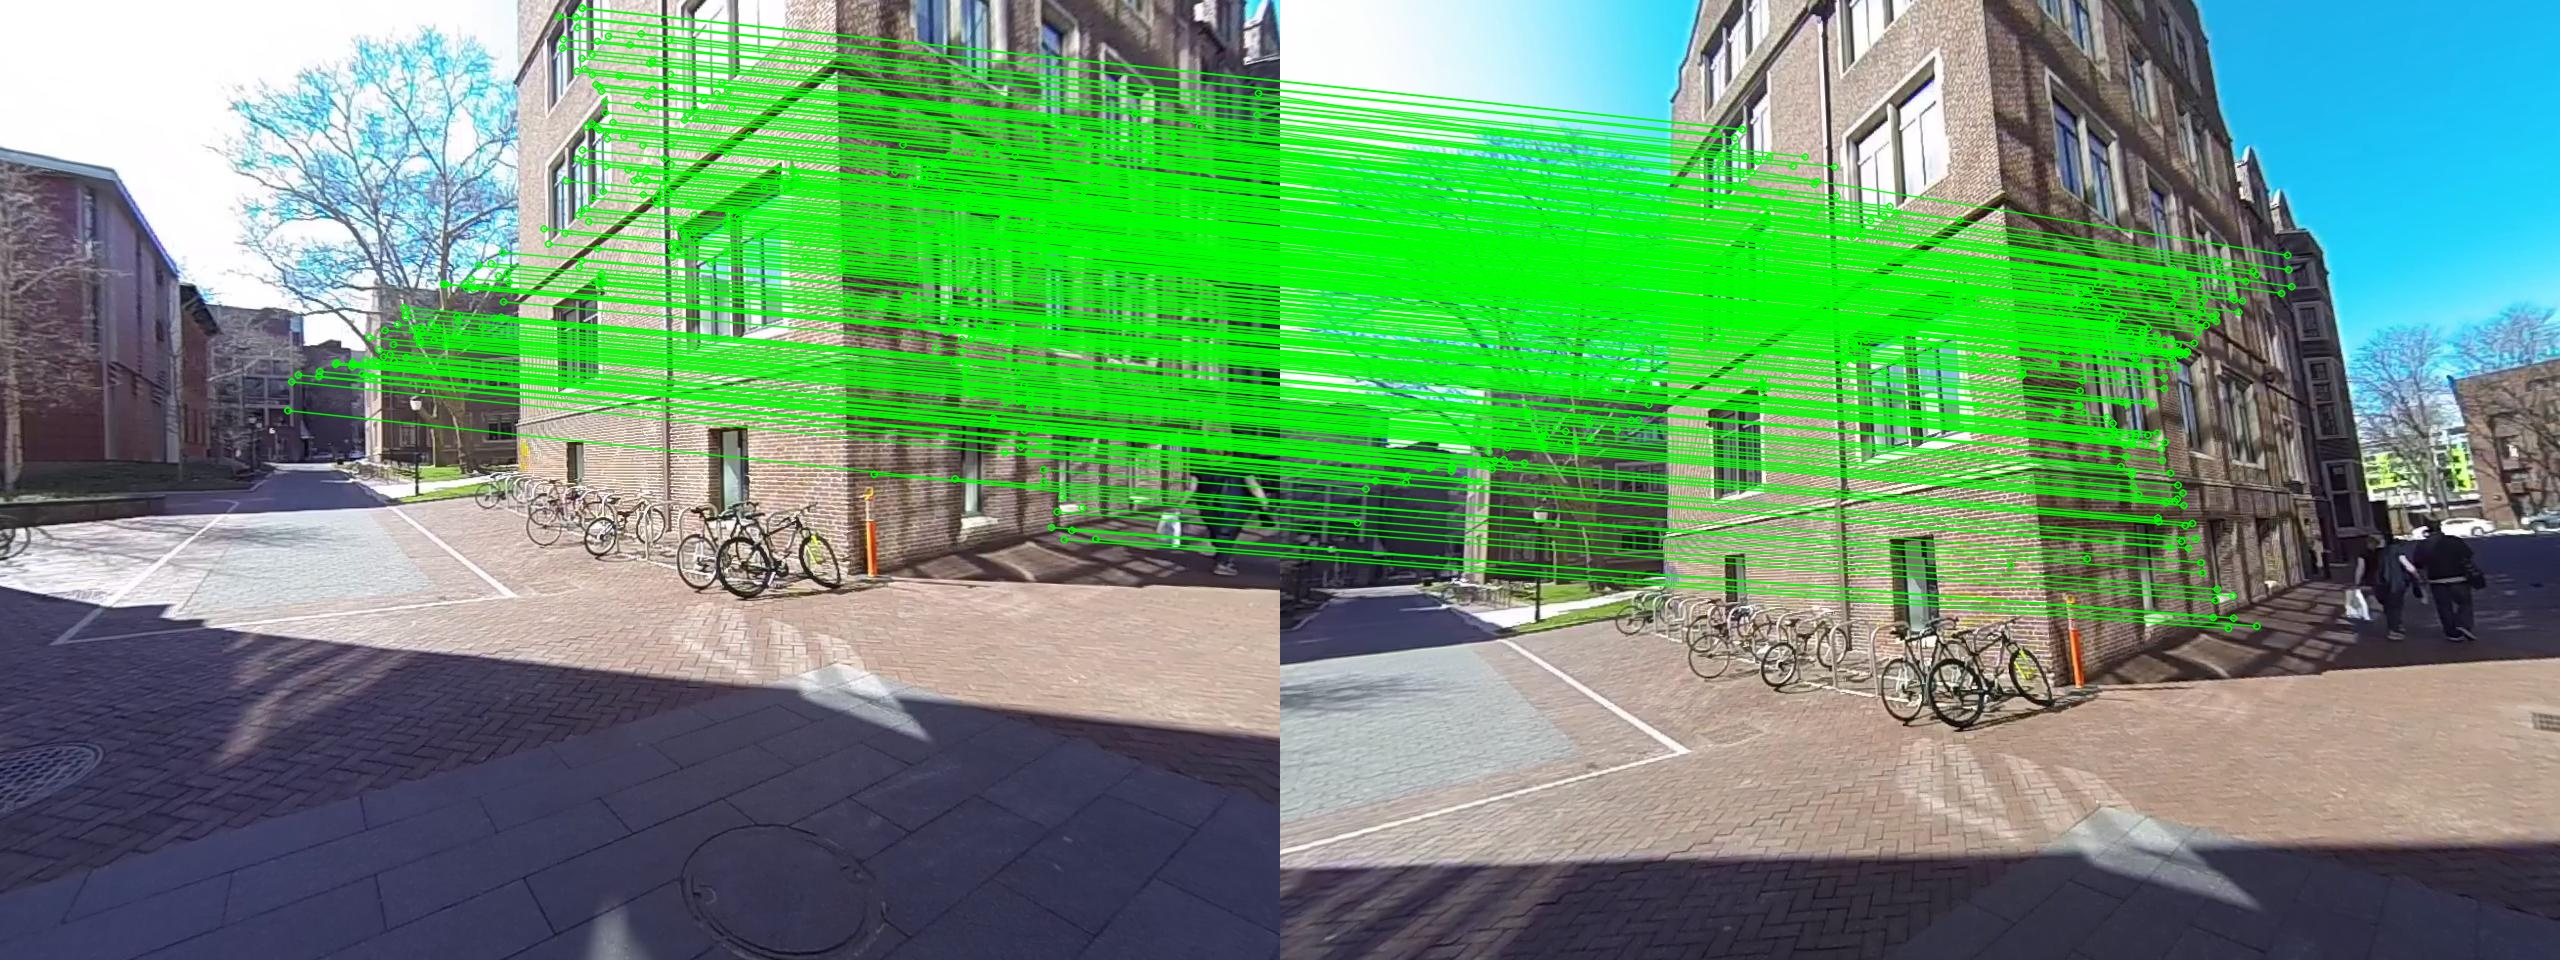
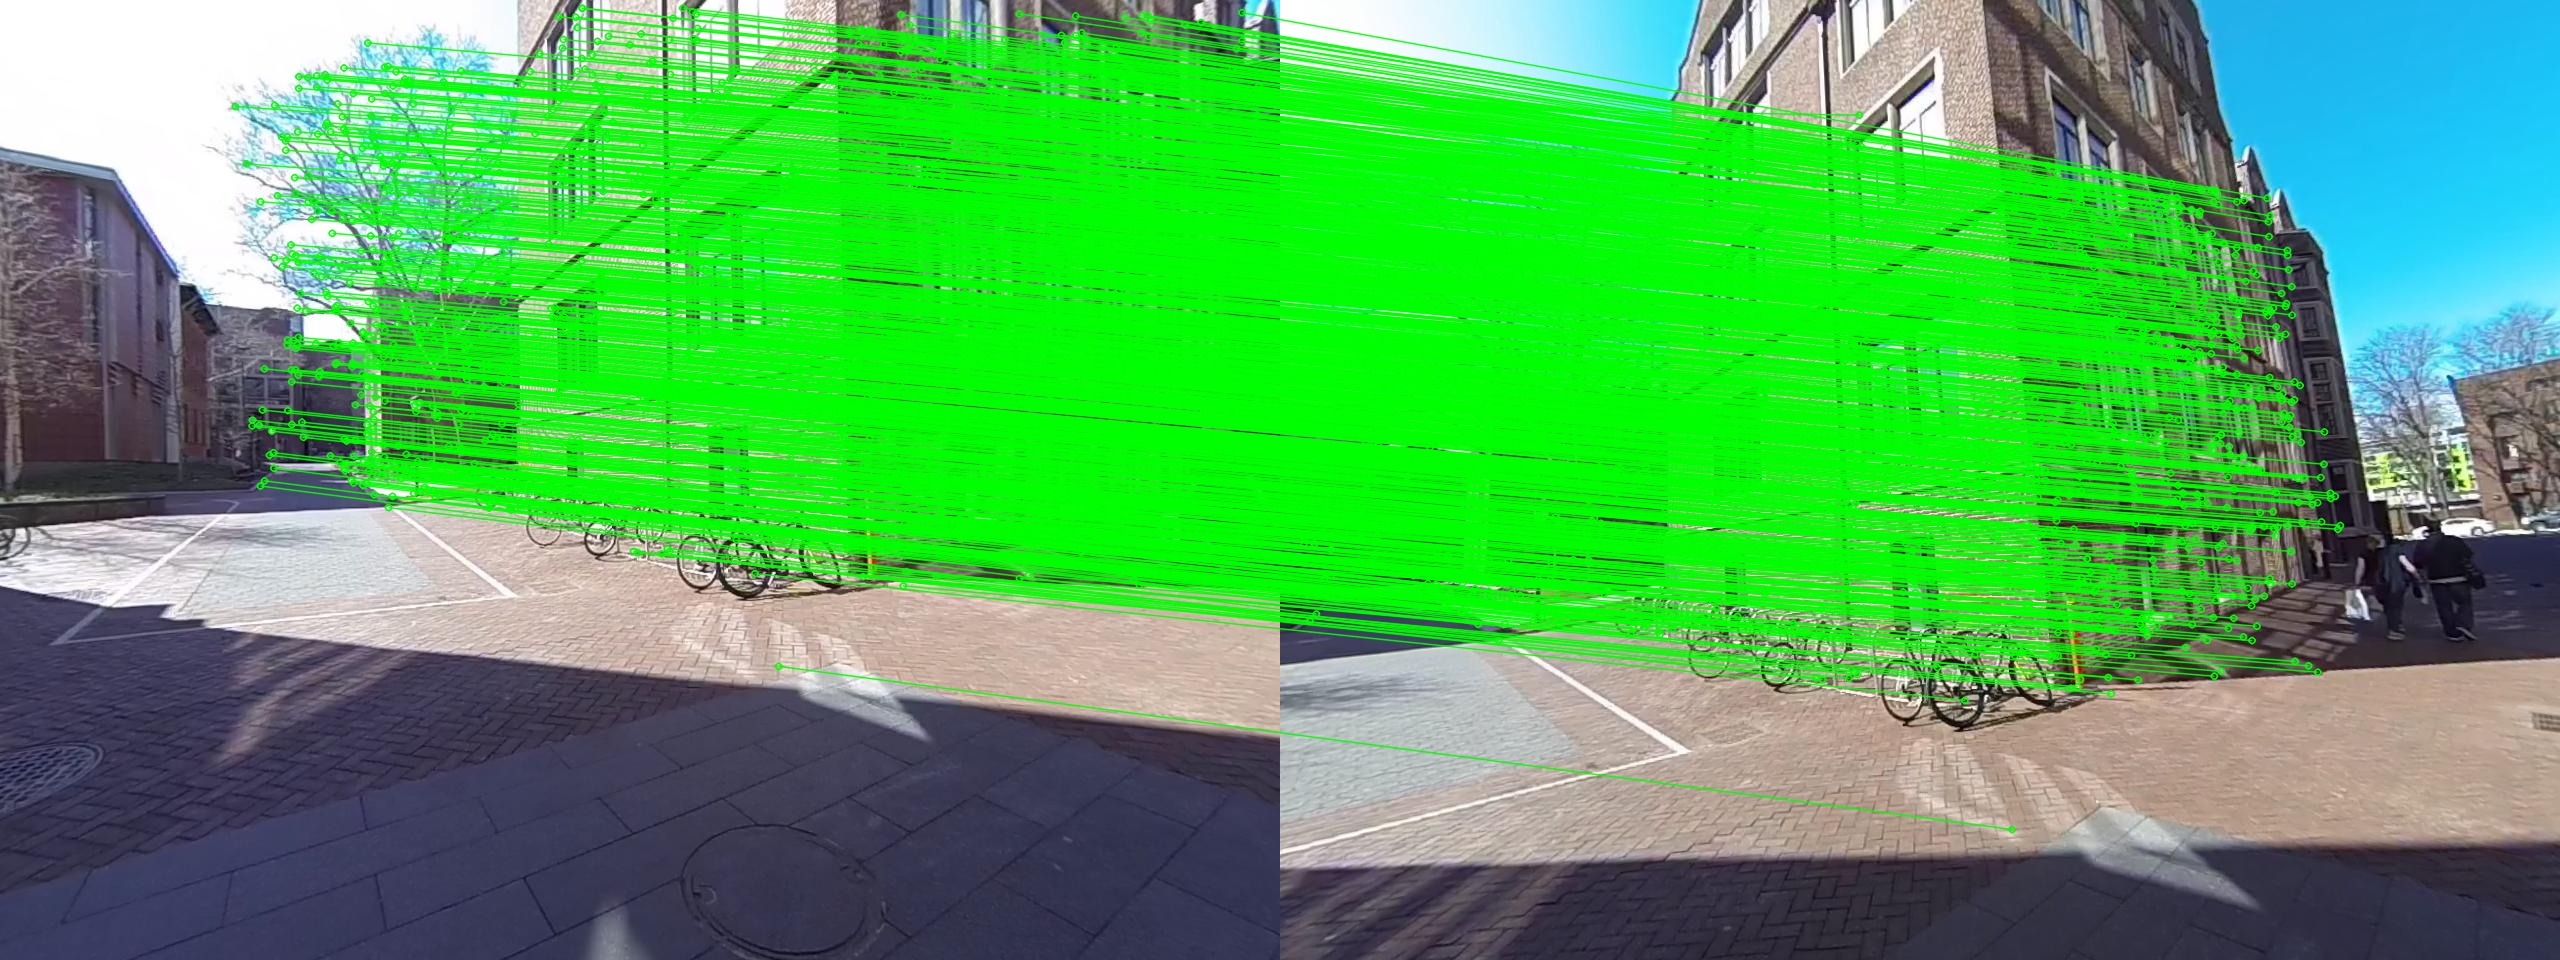
tracked down errors in GetInliersRANSAC

diff --git a/Code/EstimateFundamentalMatrix.py b/Code/EstimateFundamentalMatrix.py
@@ -1,6 +1,8 @@
 from numpy import linalg as LA
 import numpy as np
+import cv2
 
+'''
 def getT(points):
     # find centroid and shift points
     centroid = np.mean(points, axis=0)
@@ -16,7 +18,33 @@ def getT(points):
                   [0, 0, 1]])
 
     return T
+'''
 
+def getT(points):
+    '''
+    https://sites.cc.gatech.edu/classes/AY2016/cs4476_fall/results/proj3/html/arao83/index.html
+    '''
+    n = points.shape[0]
+    C = np.mean(points, axis=0)
+
+    # center points
+    u = points[:, 0] - C[0]
+    v = points[:, 1] - C[1]
+
+    # find stddev for centered points
+    std_u = 1 / np.std(u)
+    std_v = 1 / np.std(v)
+
+    # find transformation matrix
+    T_scale = np.array([[std_u, 0, 0],
+                        [0, std_v, 0],
+                        [0, 0, 1]])
+    T_offset = np.array([[1, 0, -C[0]],
+                         [0, 1, -C[1]],
+                         [0, 0, 1]])
+    T = T_scale @ T_offset
+
+    return T
 
 def EstimateFundamentalMatrix(x1DF, x2DF):
     """
@@ -31,7 +59,7 @@ def EstimateFundamentalMatrix(x1DF, x2DF):
         F (ndarray): The estimated 3x3 Fundamental matrix.
     """
 
-
+    '''
     # Convert input data from DataFrames to numpy arrays for easier manipulation
     x1DF = x1DF.to_numpy()
     x2DF = x2DF.to_numpy()
@@ -39,33 +67,41 @@ def EstimateFundamentalMatrix(x1DF, x2DF):
     x2_aug = np.hstack((x2DF, np.ones((x2DF.shape[0], 1))))
 
     # Step 1: Normalization
-    T1 = getT(x1_aug)
-    T2 = getT(x2_aug)
-    x1_norm = T1 @ x1_aug.T
-    x2_norm = T2 @ x2_aug.T
+    T1 = getT(x1DF)
+    T2 = getT(x2DF)
+    x1_norm = (T1 @ x1_aug.T).T
+    x2_norm = (T2 @ x2_aug.T).T
 
     # Step 2: Construct the Linear System (A)
     A = np.zeros((x1DF.shape[0], 9))
     for i in range(x1DF.shape[0]):
-        xS, yS = x1_norm[:2, i]
-        xT, yT = x2_norm[:2, i]
+        xS = x1_norm[i, 0]
+        yS = x1_norm[i, 1]
+        xT = x2_norm[i, 0]
+        yT = x2_norm[i, 1]
         A[i] = [xS * xT, xS * yT, xS, yS * xT, yS * yT, yS, xT, yT, 1]
 
     # Step 3: Solve the Linear System Using SVD
     U, S, Vh = LA.svd(A)
     f = Vh[-1, :]
-    F = f.reshape((3, 3))
-
+    F = f.reshape((3, 3)).T
+    
     # Step 4: Enforce Rank-2 Constraint on F
     U, S, Vh = LA.svd(F)
     S[-1] = 0  # Set the smallest singular value to zero
-    F = U @ np.diag(S) @ Vh
+    F = U @ (np.diag(S) @ Vh)
+
+    # Step 6: Denormalize the Fundamental Matrix
+    F = T2.T @ (F @ T1)
 
     # Step 5: Scaling - Ensure the last element of F is 1 for consistency
     F = F / F[2, 2]  # Corrected to F[2, 2] for the bottom-right element
 
-    # Step 6: Denormalize the Fundamental Matrix
-    F = T2.T @ F @ T1
+    '''
+    x1DF = x1DF.to_numpy()
+    x2DF = x2DF.to_numpy()
+    F, mask = cv2.findFundamentalMat(x1DF, x2DF, cv2.FM_LMEDS)
+    
 
     return F  # Return the estimated Fundamental matrix
 

diff --git a/Code/GetInliersRANSAC.py b/Code/GetInliersRANSAC.py
@@ -2,6 +2,7 @@ import pandas as pd
 import numpy as np
 import random
 import sys
+import cv2
 from EstimateFundamentalMatrix import EstimateFundamentalMatrix
 from tqdm import tqdm
 
@@ -24,8 +25,6 @@ def GetInliersRANSAC(x1All, x2All, M=1500, T=0.5):
 
     # RANSAC initialization
     inliersMax = 0
-    FBest = None
-    x1Inlier, x2Inlier = None, None
 
     for i in tqdm(range(M)):
         # Step 1: Randomly select 8 pairs of points
@@ -41,11 +40,11 @@ def GetInliersRANSAC(x1All, x2All, M=1500, T=0.5):
 
         for j in x1All.index:
             # Accessing x and y coordinates for source (x1All) and target (x2All) keypoints
-            m1 = np.append(x1All.loc[j, [2, 3]].to_numpy(), 1)  # For x1All, columns 2 and 3 (indices 1 and 2)
-            m2 = np.append(x2All.loc[j, [5, 6]].to_numpy(), 1)  # For x2All, columns 5 and 6 (indices 5 and 6)
+            m1 = np.append(x1All.loc[j, [2, 3]].to_numpy(), 1).T  # For x1All, columns 2 and 3 (indices 1 and 2)
+            m2 = np.append(x2All.loc[j, [5, 6]].to_numpy(), 1).T  # For x2All, columns 5 and 6 (indices 5 and 6)
 
             # Calculate the epipolar constraint error
-            error = np.abs(np.dot(m2.T, np.dot(F, m1)))
+            error = np.abs(m2.T @ F @ m1)
 
             if error < T:
                 inliersIdx.append(j)
@@ -56,7 +55,13 @@ def GetInliersRANSAC(x1All, x2All, M=1500, T=0.5):
             FBest = F
             x1Inlier = x1All.loc[inliersIdx]
             x2Inlier = x2All.loc[inliersIdx]
-    print(inliersMax)
+    # uncomment lines below to see comparison between cv2 fundamental matrix refined by RANSAC and that computed directly
+    # the two results are very close to each other and LinearTriangulation looks MUCH better
+    # x1_cv2 = x1All.loc[:, [2, 3]].to_numpy()
+    # x2_cv2 = x2All.loc[:, [5, 6]].to_numpy()
+    # F_cv2, mask = cv2.findFundamentalMat(x1_cv2, x2_cv2, cv2.FM_LMEDS)
+    # print(F_cv2)
+    # print(FBest)
     return x1Inlier, x2Inlier, FBest
 
 
